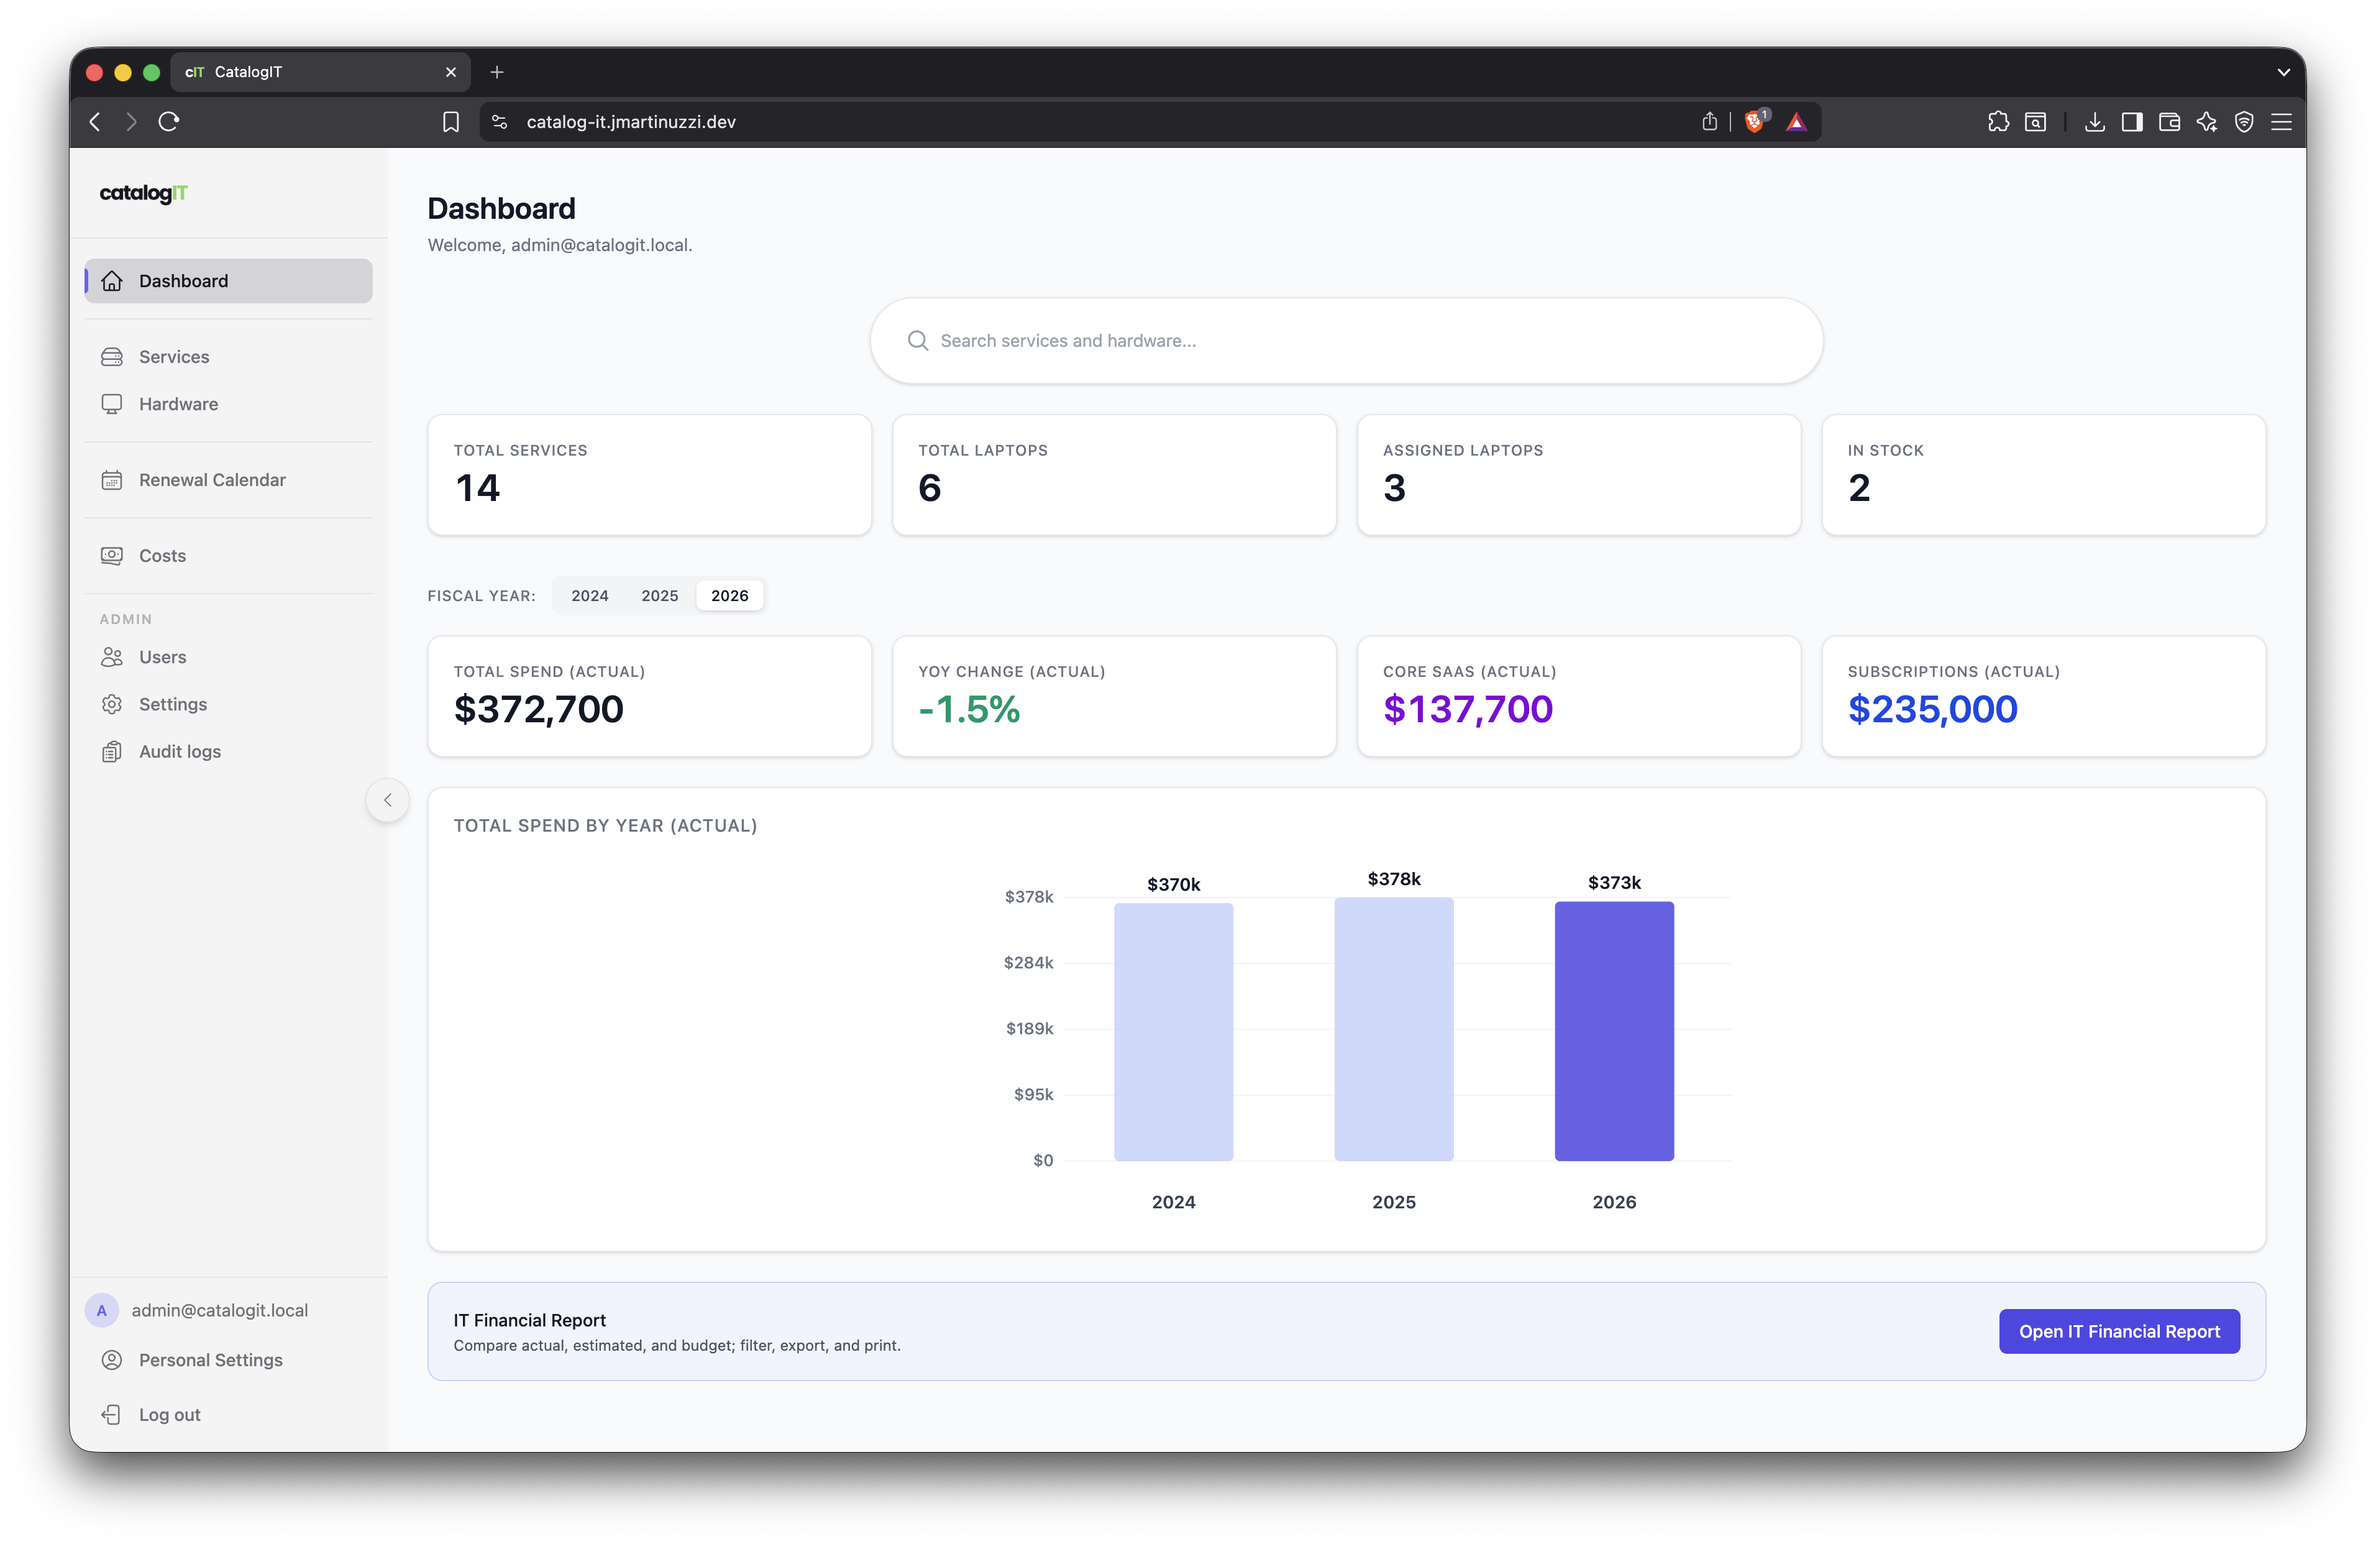
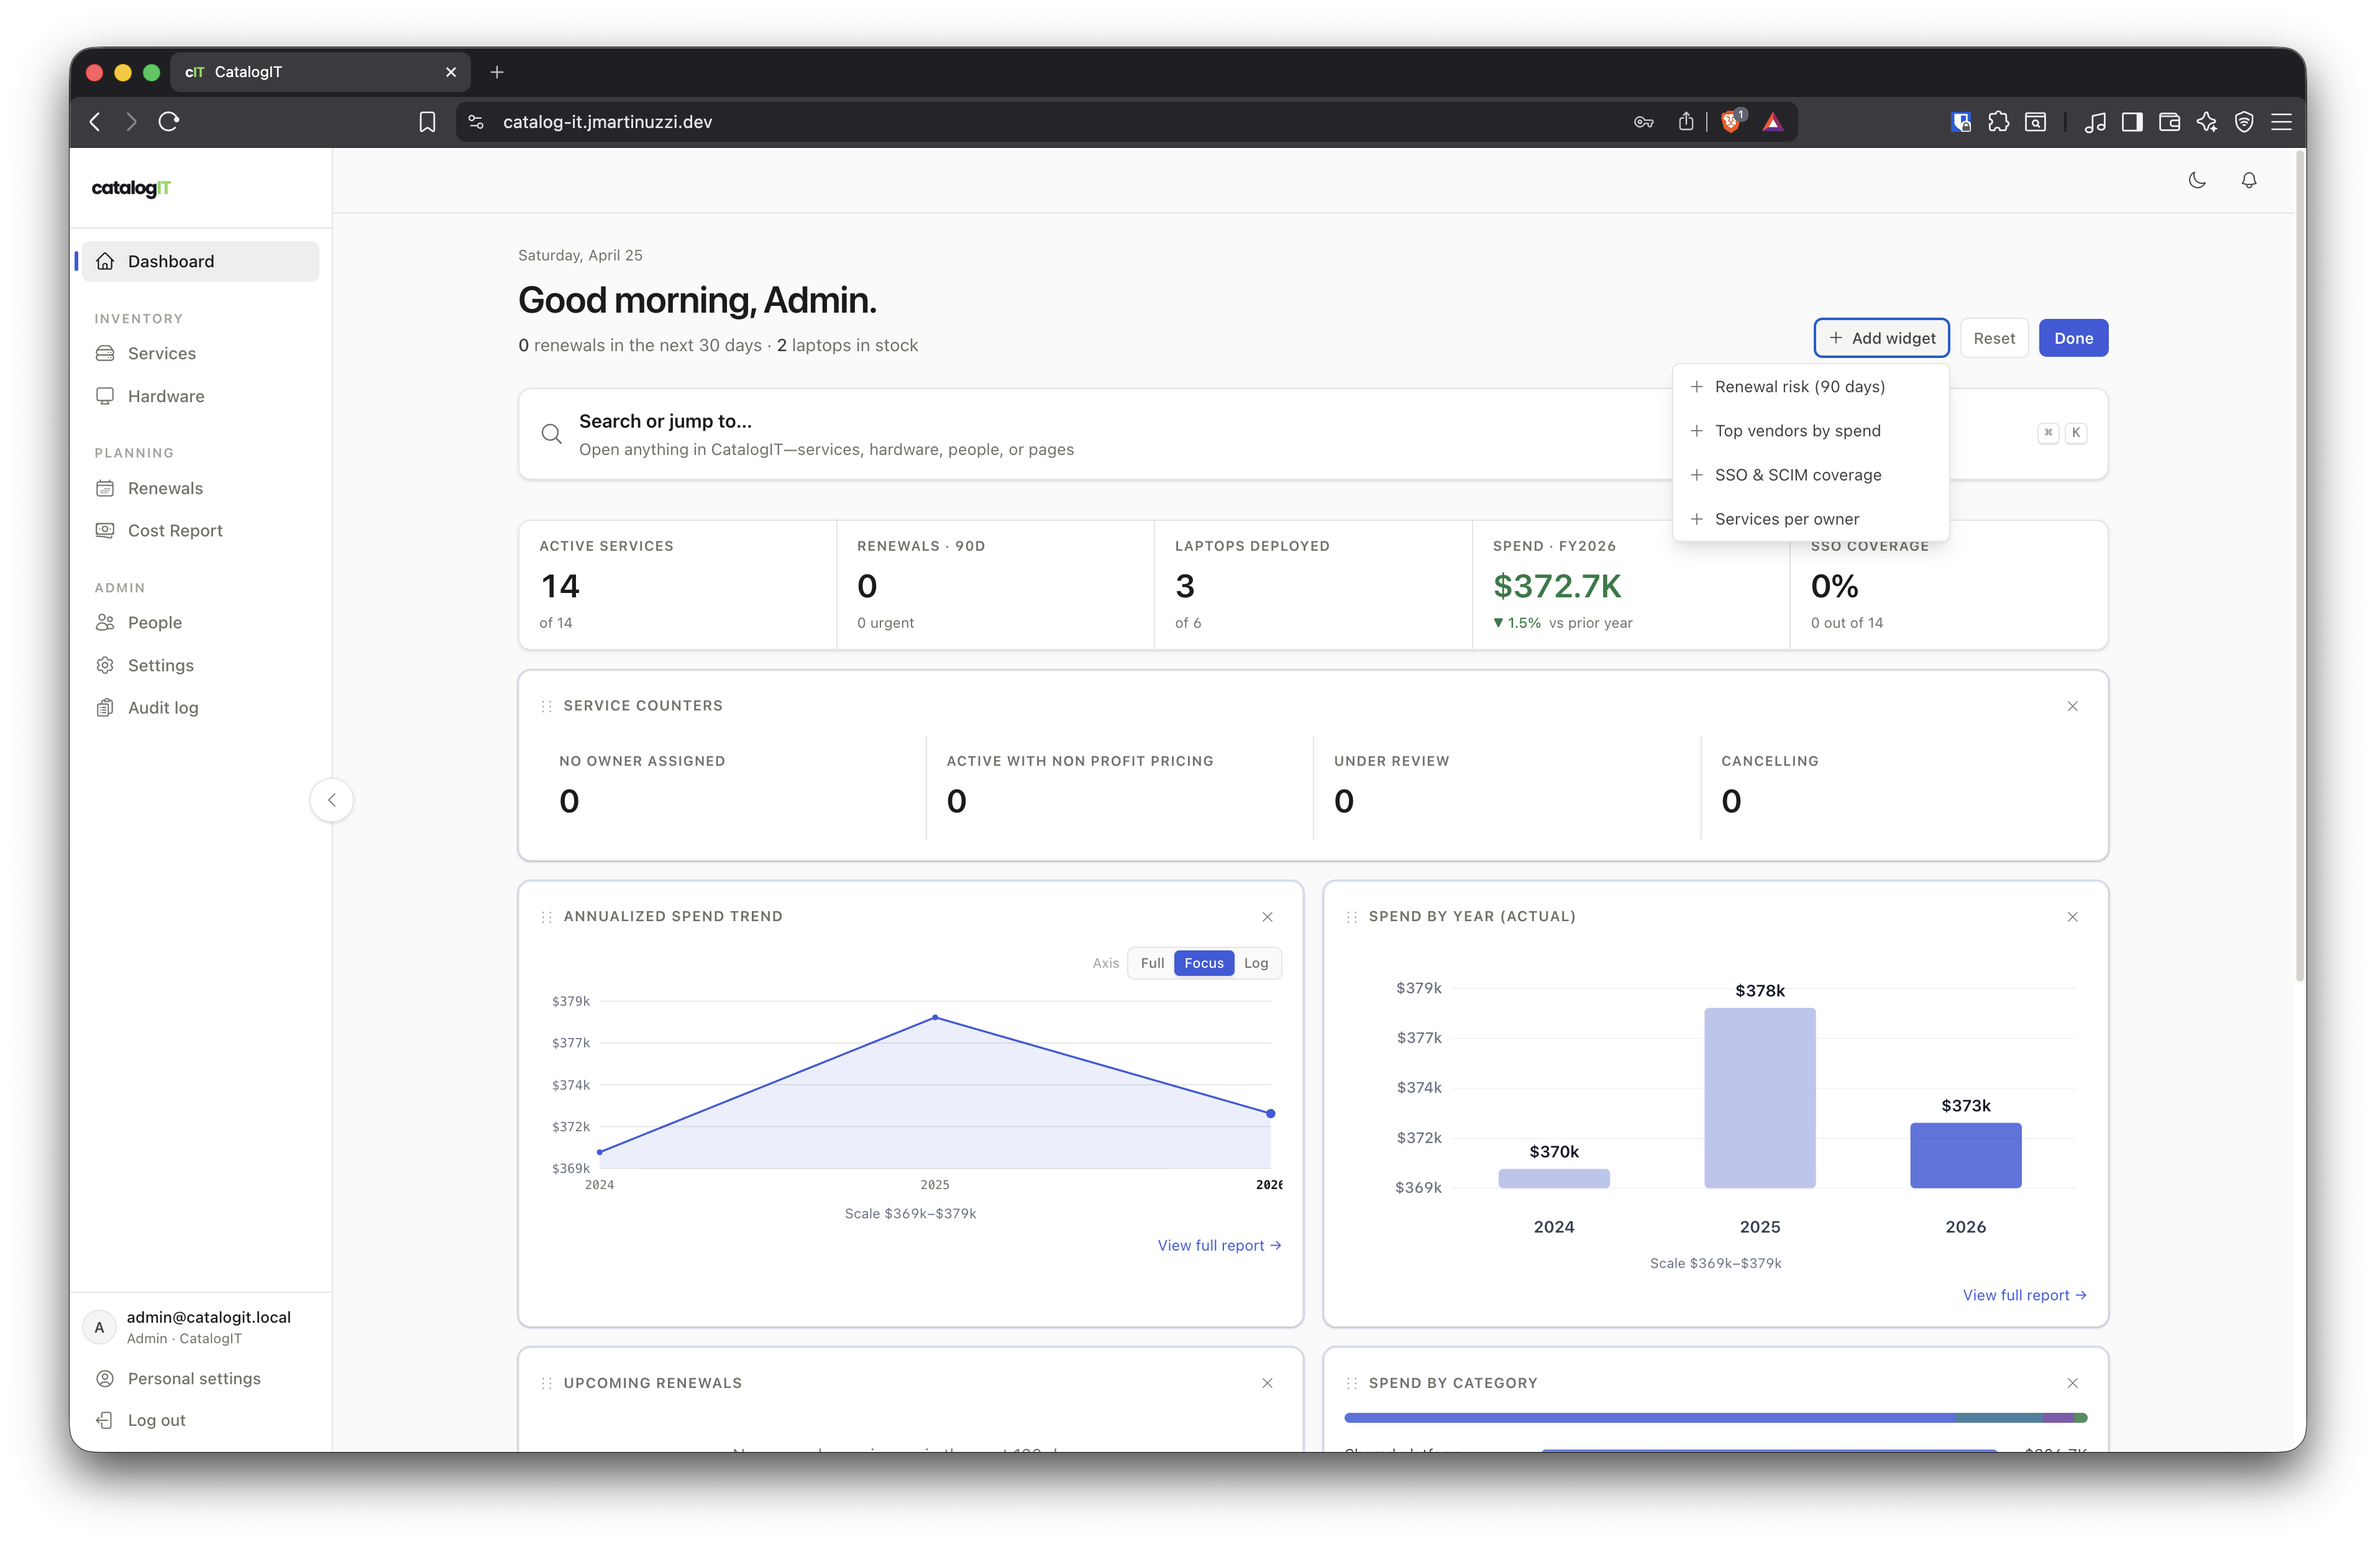
docs: refresh screenshots and add release history to README
Updated the three README screenshots and added a Release history
section summarizing v1.0.0 through v1.4.0, linking to the GitHub
releases page for full notes. Also tightened the Role-Based Access
feature bullet to reflect the new per-feature financial and hardware
permissions.

diff --git a/README.md b/README.md
@@ -12,7 +12,7 @@ CatalogIT helps organizations track their SaaS subscriptions, cloud services, an
 - **Hardware Inventory** — manage laptops and devices with assignment tracking
 - **Renewal Calendar** — visual calendar view for upcoming renewals
 - **SSO & Provisioning** — OIDC single sign-on (Okta) with SCIM 2.0 automatic user provisioning
-- **Role-Based Access** — admin and regular user roles with fine-grained permissions
+- **Role-Based Access** — admin/editor/viewer roles plus per-feature permissions for financial data and hardware visibility
 - **Audit Logging** — comprehensive change history with configurable retention policies
 - **Notifications** — renewal reminders and alerts via Gmail, Slack, Telegram, or webhooks ([email templates](docs/email-templates.md))
 - **File Attachments** — attach contracts and documents to services (S3-compatible storage)
@@ -166,6 +166,40 @@ catalogIT/
 ├── Makefile           # e.g. make release — push images; make backup-local
 └── .env.example       # Environment variable template
 ```
+
+## Release history
+
+Highlights from the most recent releases. Full notes on the [GitHub releases page](https://github.com/jonymaster/catalogIT/releases).
+
+### v1.4.0 — April 2026
+
+- **Granular permissions:** new Financial view and Hardware visibility permissions, applied end-to-end across the UI and API. Admins still see everything.
+- **Admin password reset:** admins can reset local users' passwords directly from the user detail page.
+- Bug fixes around user search results.
+
+### v1.3.0 — April 2026
+
+- **User-centric navigation:** new per-user pages for owned/assigned services and assigned assets.
+- **Personalized workspace preferences:** date format, dashboard defaults, column layouts persisted server-side per user.
+- Rolls up five backlog initiatives with regression fixes.
+
+### v1.2.x — April 2026
+
+- **Visual refresh** across the product with new dashboard widgets and flexible layout.
+- **Automatic notification scheduling** so renewal reminders fire without manual cron triggers.
+- **Tags and yearly costs** on services, plus cost-report UI improvements.
+- Deep linking between lists and detail pages for faster navigation.
+
+### v1.1.x — April 2026
+
+- **Cost records** replace the single yearly-cost field, with actual vs. estimated costs merged per fiscal year.
+- **Point of Contact** field for services and reference-data color coding.
+- Dashboard widgets, export-all, and integration disconnection.
+- v1.1.0 introduced a modern UI overhaul, v1 financial permissions, hardware costs and locations.
+
+### v1.0.0 — April 2026
+
+First stable release: service catalog, hardware inventory, renewal calendar, OIDC + SCIM, role-based access, audit logging, notifications, attachments, and API tokens.
 
 ## Contributing
 
